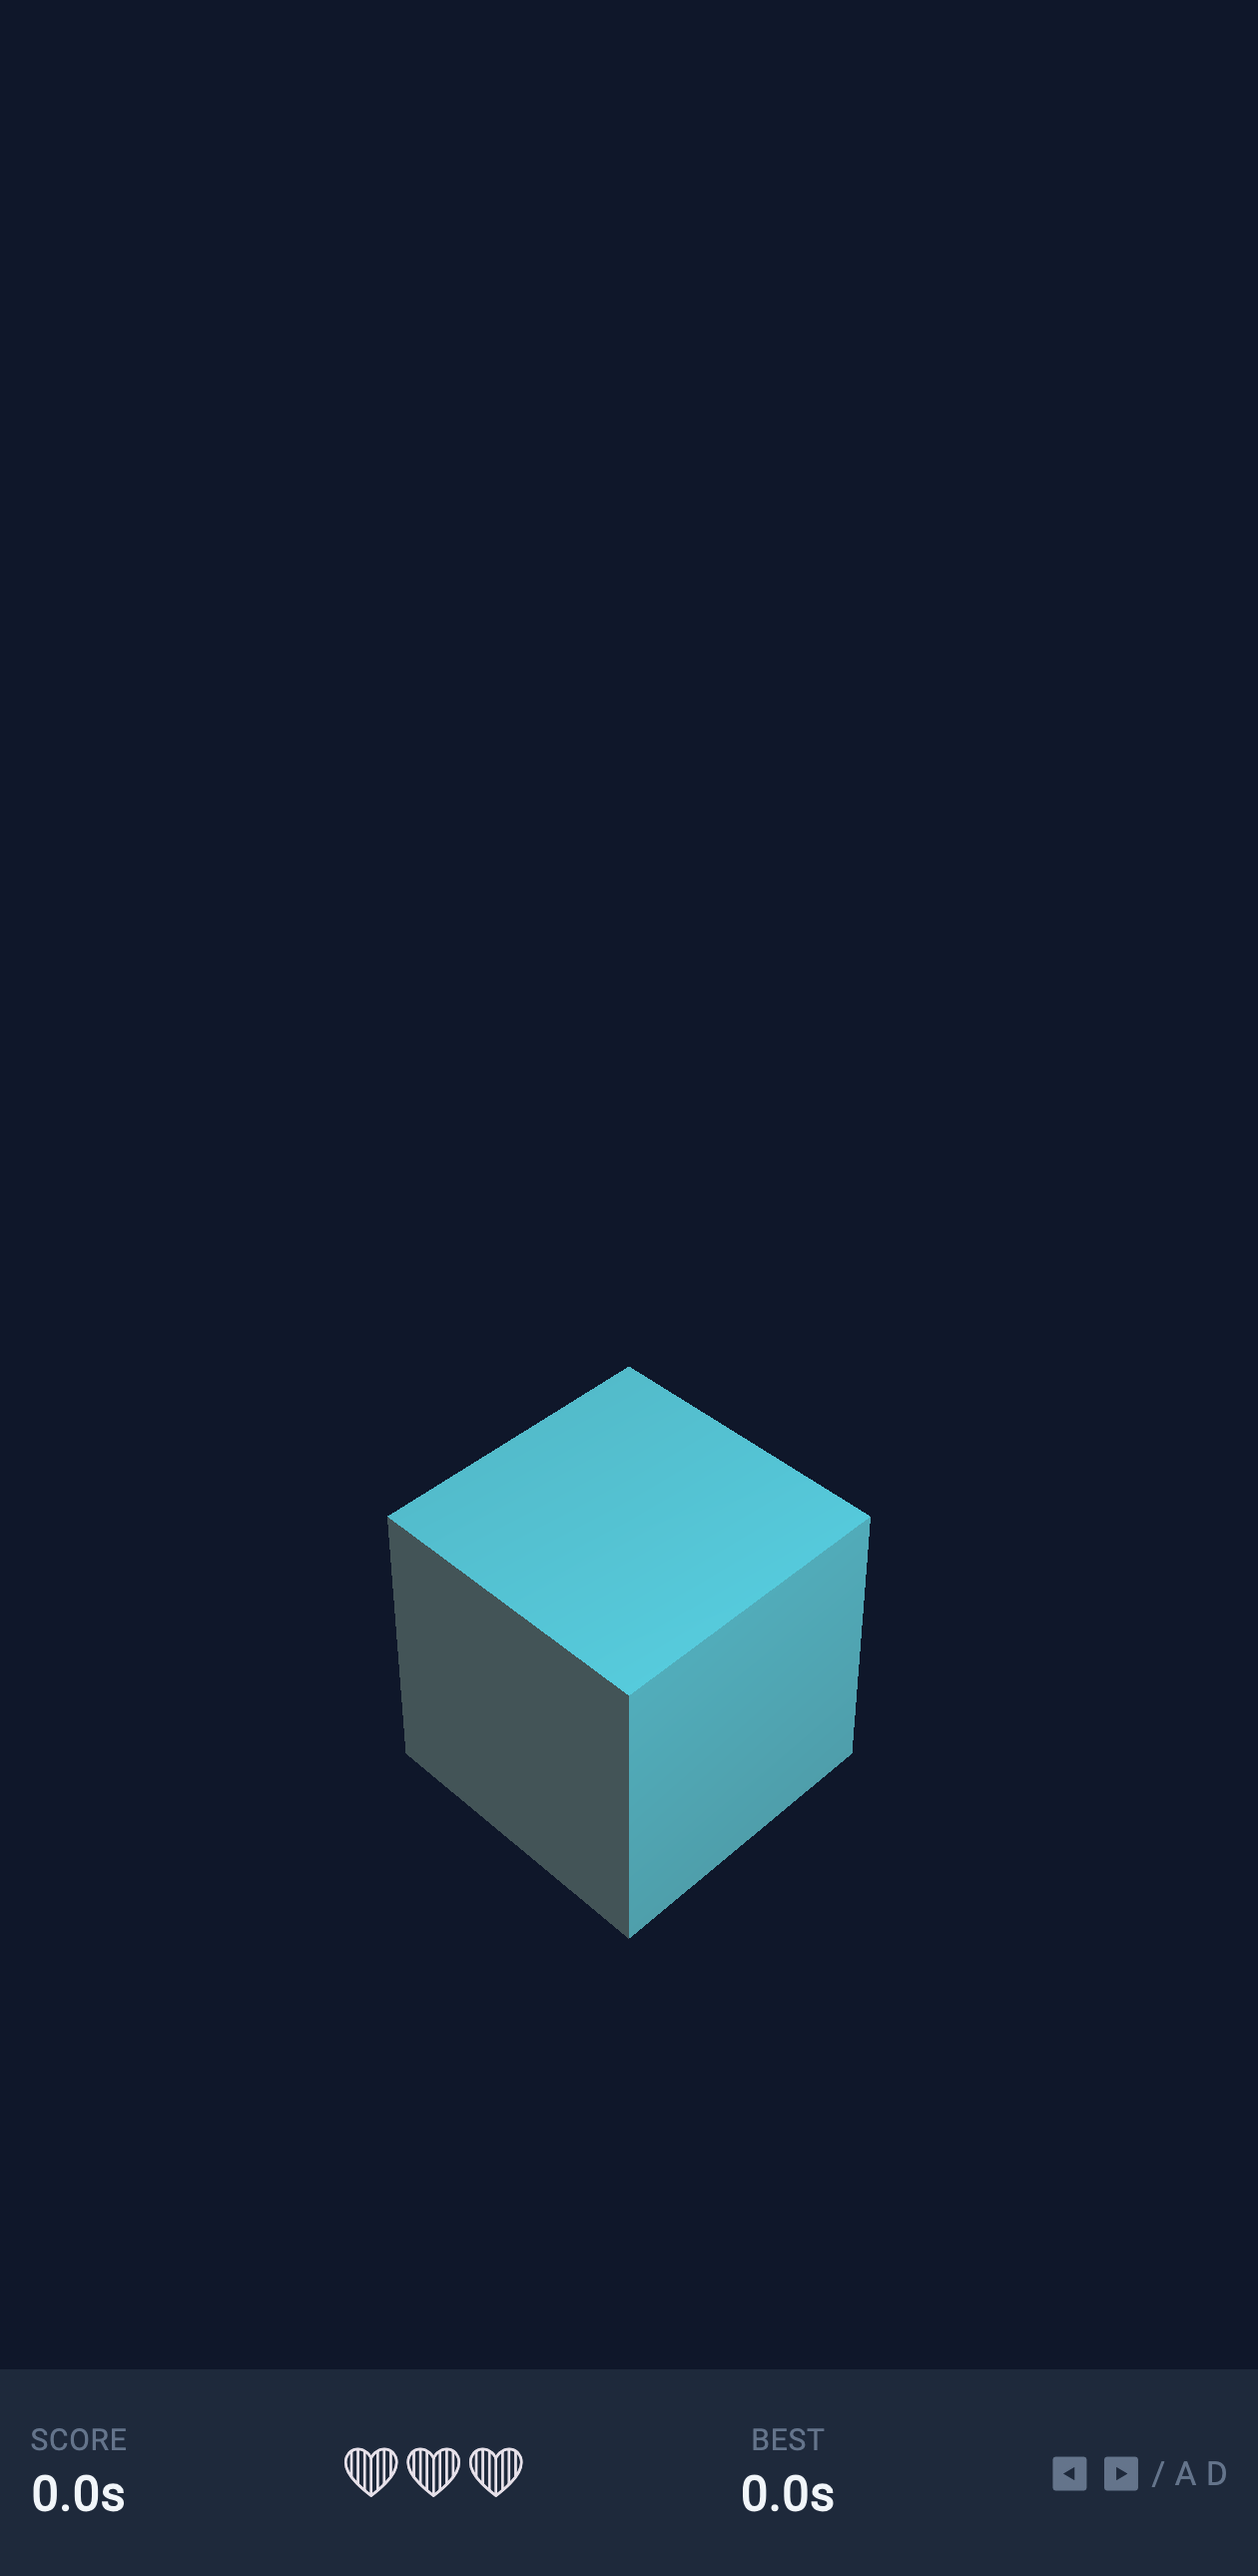
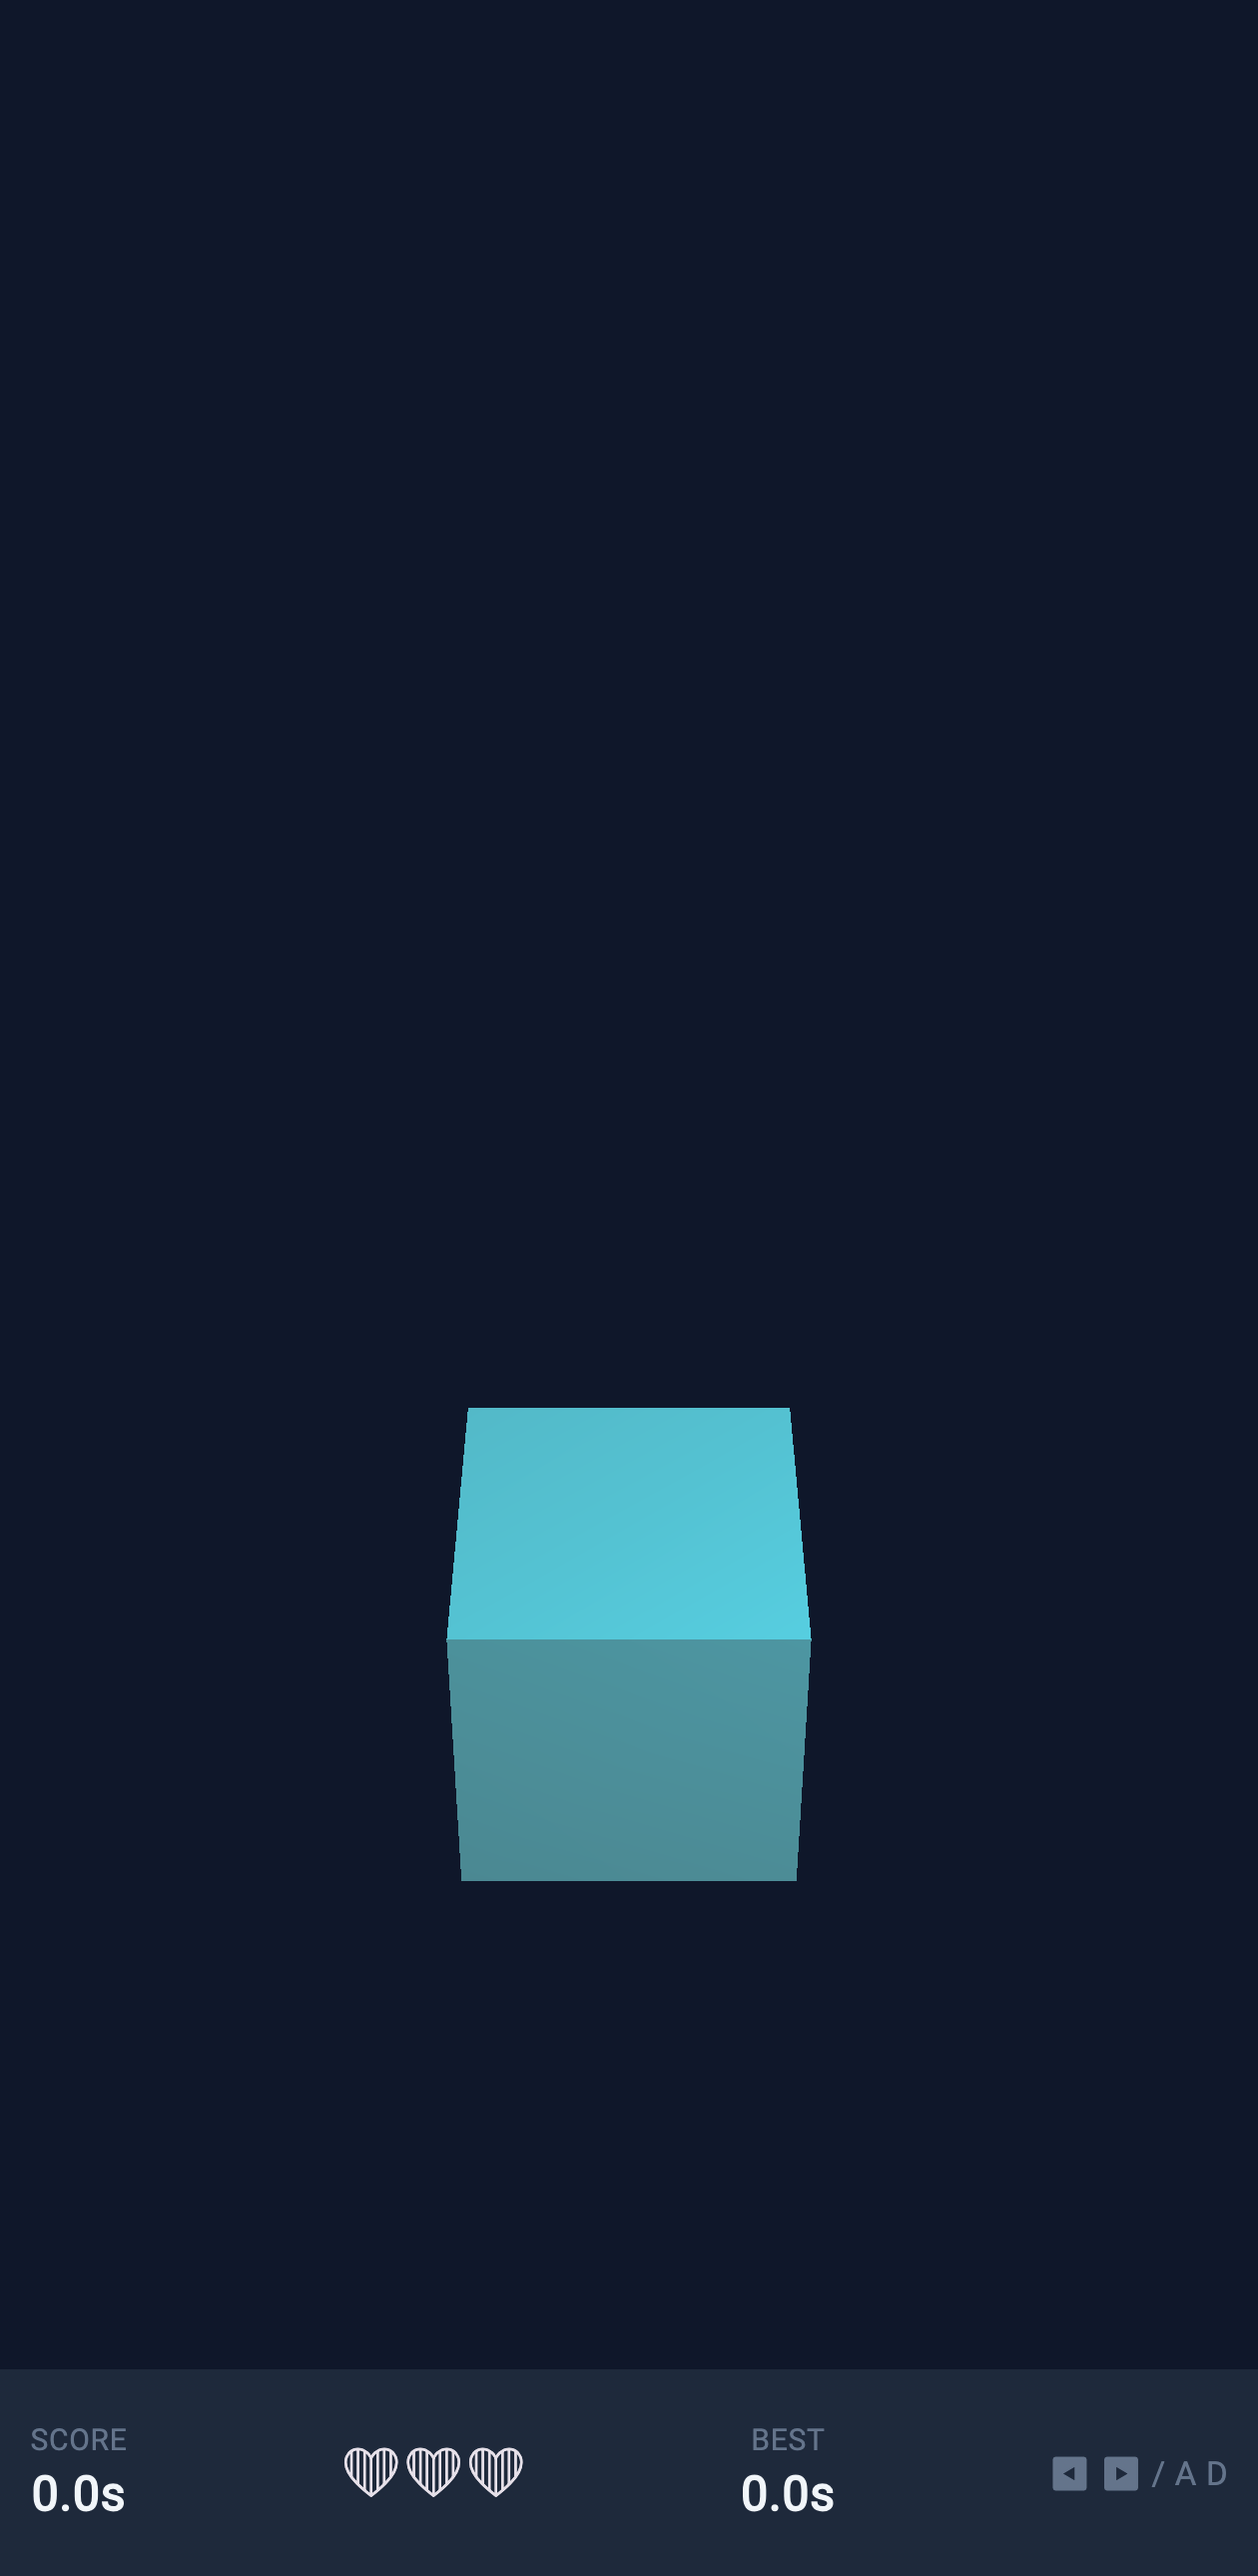
dodge: revert player cube yaw — keep the player axis-aligned
The 45° diamond look belonged to the 3d-showcase figure, not the game
player. The ◀▶ hint glyphs and themed HUD bar stay.

Changed region(s): [[0.3095, 0.5271, 0.7119, 0.7752]]

diff --git a/example/widgets/3d-game-dodge/widget.js b/example/widgets/3d-game-dodge/widget.js
@@ -47,9 +47,6 @@
       primitive: 'cube',
       color: '#22d3ee',
       position: [0, 0, PLAYER_Z],
-      // A 45° yaw turns the player into a diamond so the top-down camera
-      // sees three faces instead of one flat front.
-      rotation: [0, 45, 0],
       scale: [1.2, 1.2, 1.2]
     });
     jsr.storage.get('dodge-best').then(function(saved) {
